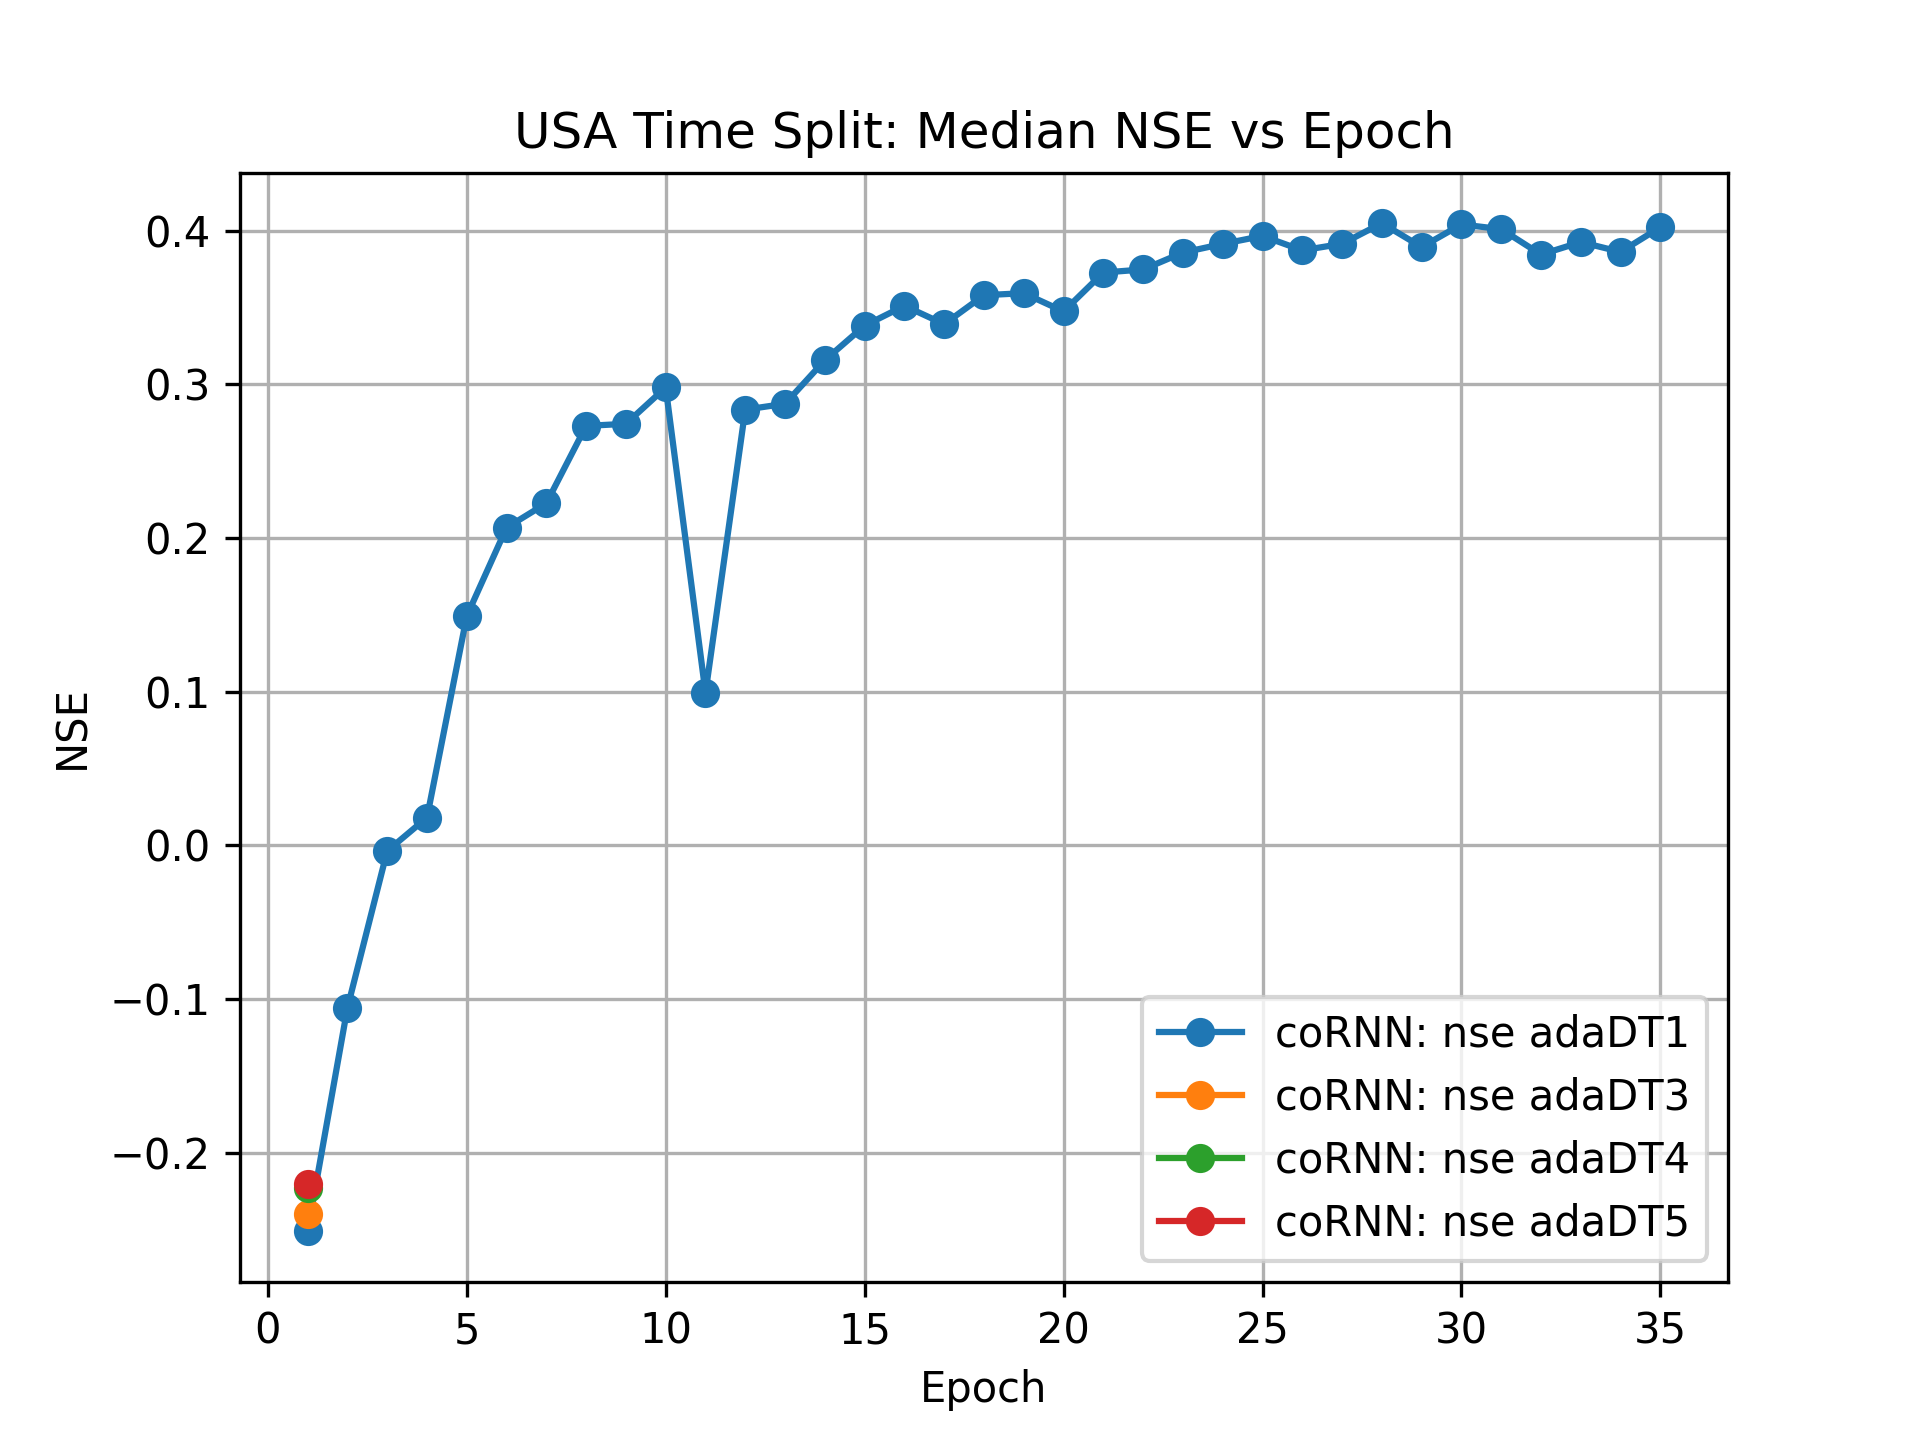
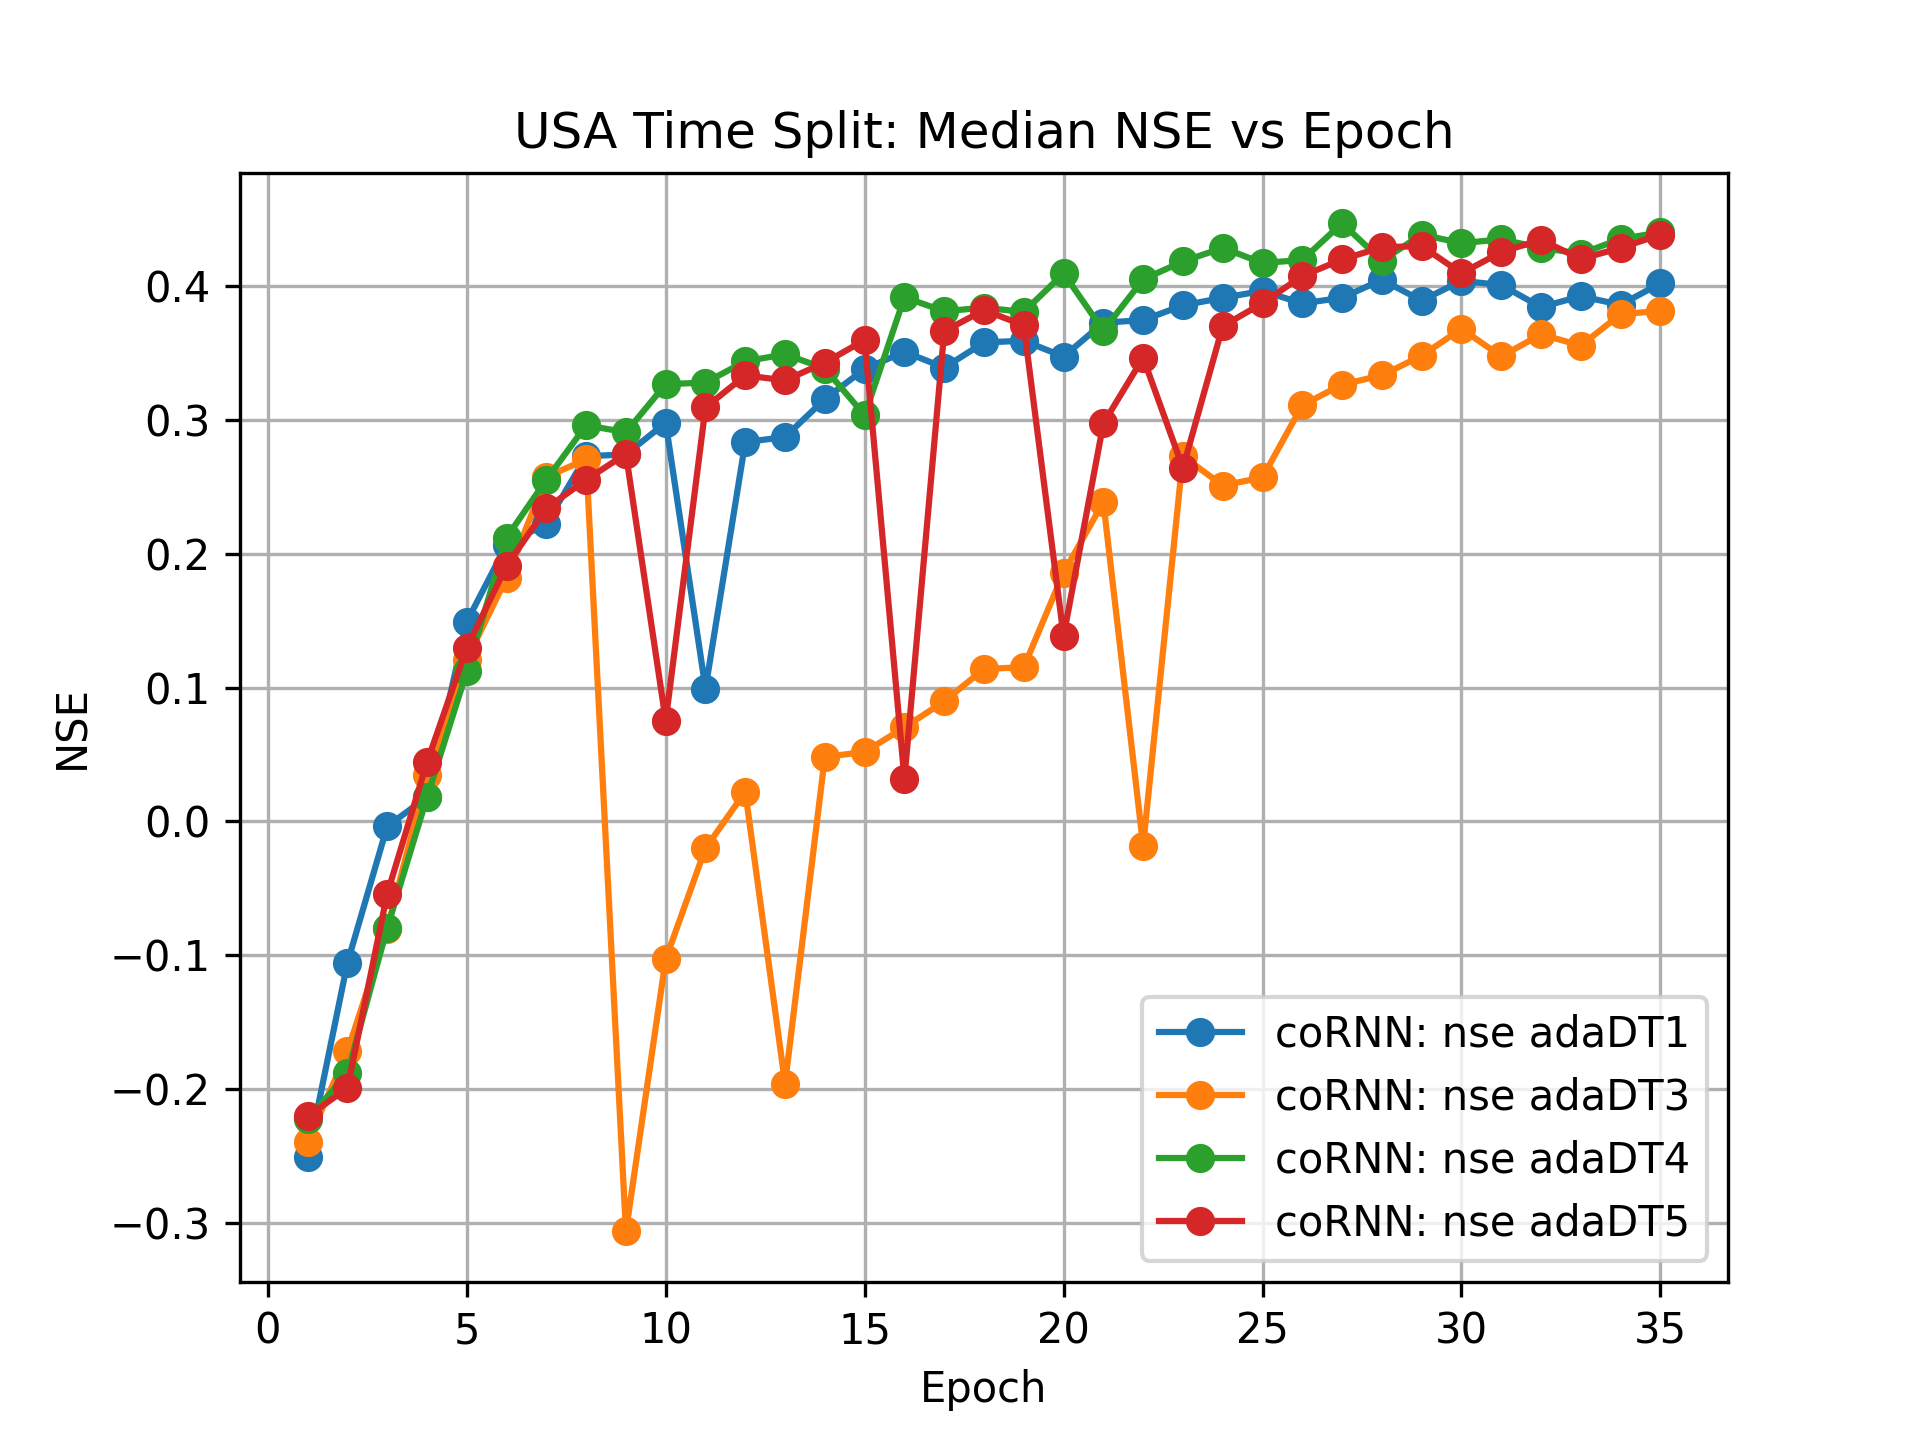
evaluate and plots for increased dt_bounds

diff --git a/examples/catchment_models/neuralhydrology/model_plots.py b/examples/catchment_models/neuralhydrology/model_plots.py
@@ -39,13 +39,13 @@ if __name__ == "__main__":
             split_name = f"{parts[0].upper()} {parts[1].capitalize()} {parts[2].capitalize()}"
             exp_name = f"{model}: {parts[3]} {parts[4]}"
 
-            # # Plot observed vs simulated trajectory
-            # qobs, qsim = obs_vs_sim_plot(model_dir, run_dir, epoch)
-            # OvS.append((qobs, qsim, exp_name))
+            # Plot observed vs simulated trajectory
+            qobs, qsim = obs_vs_sim_plot(model_dir, run_dir, epoch)
+            OvS.append((qobs, qsim, exp_name))
 
-            # # Plot CDF of test metric (default: 'NSE')            
-            # nse, cdf = cdf_plot(model_dir, run_dir, epoch, metric)
-            # CDF.append((nse, cdf, exp_name))
+            # Plot CDF of test metric (default: 'NSE')            
+            nse, cdf = cdf_plot(model_dir, run_dir, epoch, metric)
+            CDF.append((nse, cdf, exp_name))
 
             # Plot Median NSE vs Epochs
             ep, med_nse = NSE_plot(model_dir, run_dir, epoch)
@@ -57,19 +57,19 @@ if __name__ == "__main__":
             os.makedirs(f'plots/{plot_folder}')
 
         # Plot all CDFs on the same figure
-        # plt.figure(1)
-        # for (nse, cdf, exp_name) in CDF:
-        #     plt.plot(nse, cdf, label=exp_name)
-        # plt.xlabel(metric)
-        # plt.ylabel('CDF')
-        # plt.title(f'{split_name}: CDF of {metric} for {epoch} epochs')
-        # plt.xlim(0,1)
-        # plt.ylim(-0.1,1.1)
-        # plt.grid(True)
-        # plt.legend()
-        # fig_path = f'plots/{plot_folder}/CDF_{metric}.png'
-        # plt.savefig(fig_path, dpi=300)
-        # plt.close()
+        plt.figure(1)
+        for (nse, cdf, exp_name) in CDF:
+            plt.plot(nse, cdf, label=exp_name)
+        plt.xlabel(metric)
+        plt.ylabel('CDF')
+        plt.title(f'{split_name}: CDF of {metric} for {epoch} epochs')
+        plt.xlim(0,1)
+        plt.ylim(-0.1,1.1)
+        plt.grid(True)
+        plt.legend()
+        fig_path = f'plots/{plot_folder}/CDF_{metric}.png'
+        plt.savefig(fig_path, dpi=300)
+        plt.close()
 
         # Plot all median NSE on the same figure
         min_nse = 0
@@ -93,14 +93,14 @@ if __name__ == "__main__":
 
 
         # Plot observed vs simulated trajecory
-        # plt.figure(3, figsize=(16,10))
-        # qobs, _, _ = OvS[0]
-        # for (qobs, qsim, exp_name) in OvS:
-        #     plt.plot(qsim['date'], qsim, label=f'{exp_name}')
-        # plt.plot(qobs['date'], qobs, label='Observed')
-        # plt.legend()
-        # plt.ylabel("Discharge (mm/d)")
-        # plt.title(f"Observed vs Simulated Trajectory")
-        # fig_path = f'plots/{plot_folder}/obs_vs_sim.png'
-        # plt.savefig(fig_path, dpi=300)
-        # plt.close()
+        plt.figure(3, figsize=(16,10))
+        qobs, _, _ = OvS[0]
+        for (qobs, qsim, exp_name) in OvS:
+            plt.plot(qsim['date'], qsim, label=f'{exp_name}')
+        plt.plot(qobs['date'], qobs, label='Observed')
+        plt.legend()
+        plt.ylabel("Discharge (mm/d)")
+        plt.title(f"Observed vs Simulated Trajectory")
+        fig_path = f'plots/{plot_folder}/obs_vs_sim.png'
+        plt.savefig(fig_path, dpi=300)
+        plt.close()

diff --git a/examples/catchment_models/neuralhydrology/calc_metrics.py b/examples/catchment_models/neuralhydrology/calc_metrics.py
@@ -26,9 +26,9 @@ if __name__=="__main__":
                 #     ['usa_time_split_adj_0807_170652'],
                 'neuralhydrology':
                     [
-                    'usa_time_split_nse_lr11_2907_225221',
                     'usa_time_split_nse_adaDT1_3107_125025',
-                    'usa_time_split_nse_adaDT2_3107_125434'
+                    'usa_time_split_nse_adaDT4_0508_103630',
+                    'usa_time_split_nse_adaDT5_0508_103715'
                     ]
                 }
 
